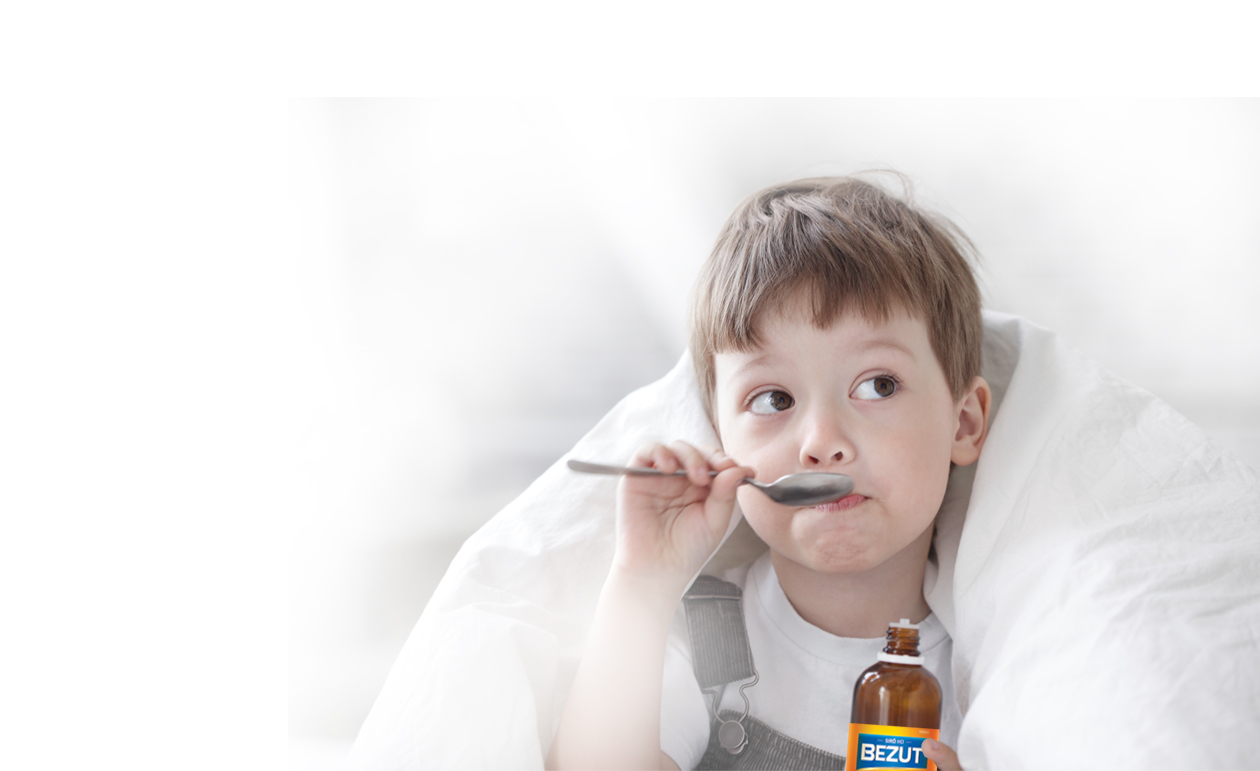
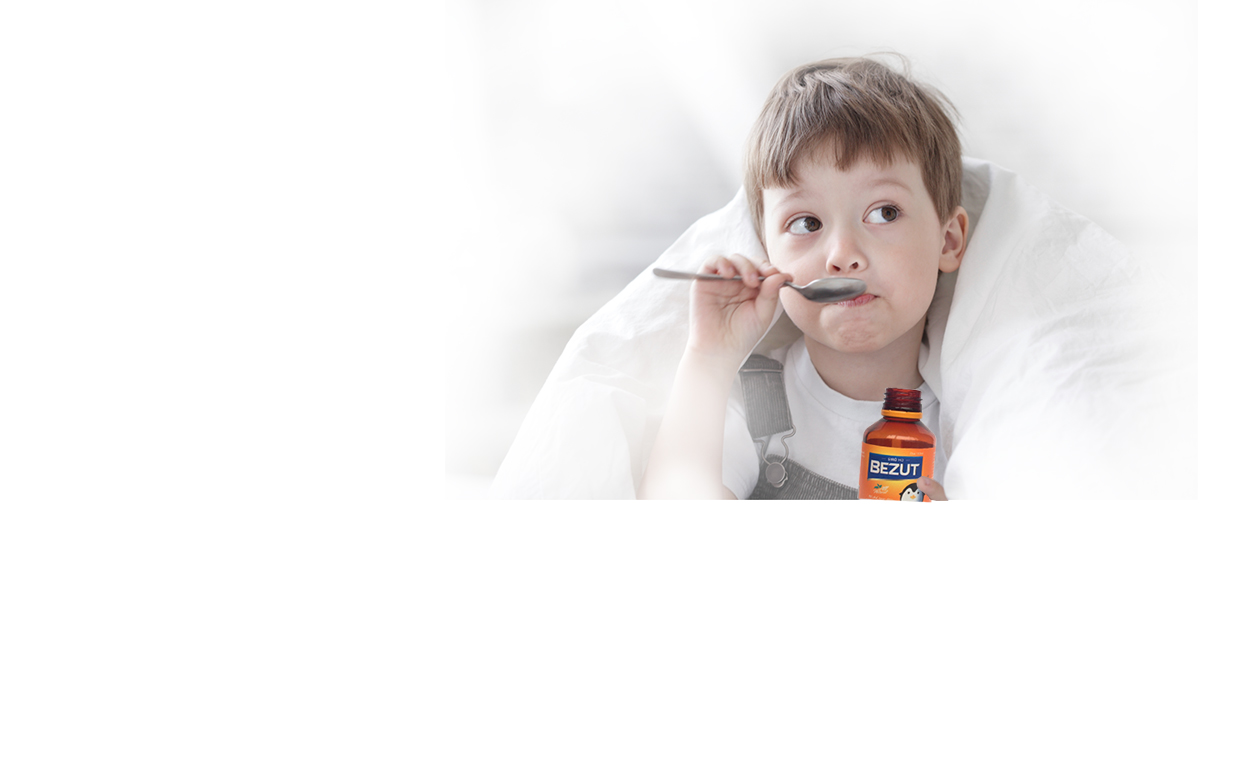
31-03-2016

diff --git a/3-source/bezut_Source/assets/styles/StyleSheet.css b/3-source/bezut_Source/assets/styles/StyleSheet.css
@@ -8,6 +8,13 @@ body {
     font-weight: 300;
     line-height: 24px;
 }
+#wrapper {
+    left: 0;
+    top: 0;
+    position: absolute;
+    min-width: 1170px;
+    width: 100%;
+}
 .clr {
     clear: both;
 }
@@ -29,7 +36,7 @@ body {
     line-height: 28px;
 }
 .row {
-    margin: 0 -15px;
+    margin: 0;
 }
     .row .col-xs-6 {
         float: left;
@@ -82,6 +89,7 @@ p {
 #boxgroup-1 {
     background-image: url(../images/nghiencuu/bgm-1.jpg);
     background-position: center top;
+    font-weight: 500;
 }
 .description {
     text-align: justify;
@@ -192,7 +200,7 @@ p {
     }
     #boxgroup-3 .group-img {
         left: 0;
-        top: 0;
+        top: 95px;
         position: absolute;
         width: 100%;
         z-index: 0;
@@ -312,12 +320,18 @@ p {
 }
 /*==================*/
 #boxgroup-4 .group-a {
-    background: url(../images/nghiencuu/bgm-4.jpg) no-repeat right bottom;
+    /*background: url(../images/nghiencuu/bgm-42.jpg) no-repeat right bottom;*/
+    position: relative;
+    width: 100%;
 }
+    #boxgroup-4 .group-a > .container {
+        position: relative;
+        z-index: 10;
+    }
 #boxgroup-4 .box-text {
     color: #7d7d7d;
         font-family: 'Open Sans', Arial, sans-serif;
-    min-height: 741px;
+    min-height: 783px;
     padding-top: 30px;
     position: relative;
     width: 670px;
@@ -352,6 +366,17 @@ p {
     left: 0;
     position: absolute;
 }
+#boxgroup-4 .group-imga {
+    bottom: 0;
+    left: 0;
+    position: absolute;
+    width: 100%;
+    z-index: 1;
+}
+    #boxgroup-4 .group-imga img {
+        display: block;
+        width: 100%;
+    }
 #boxgroup-4 .ml105 {
     padding-left: 105px;
 }
@@ -434,6 +459,7 @@ p {
     background: url(../images/nghiencuu/bgm-2b.jpg) no-repeat left center;
     background-size: cover;
     min-height: 490px;
+    font-weight: 500;
 }
 #boxgroup-5 .box-text {
     color: #583800;
